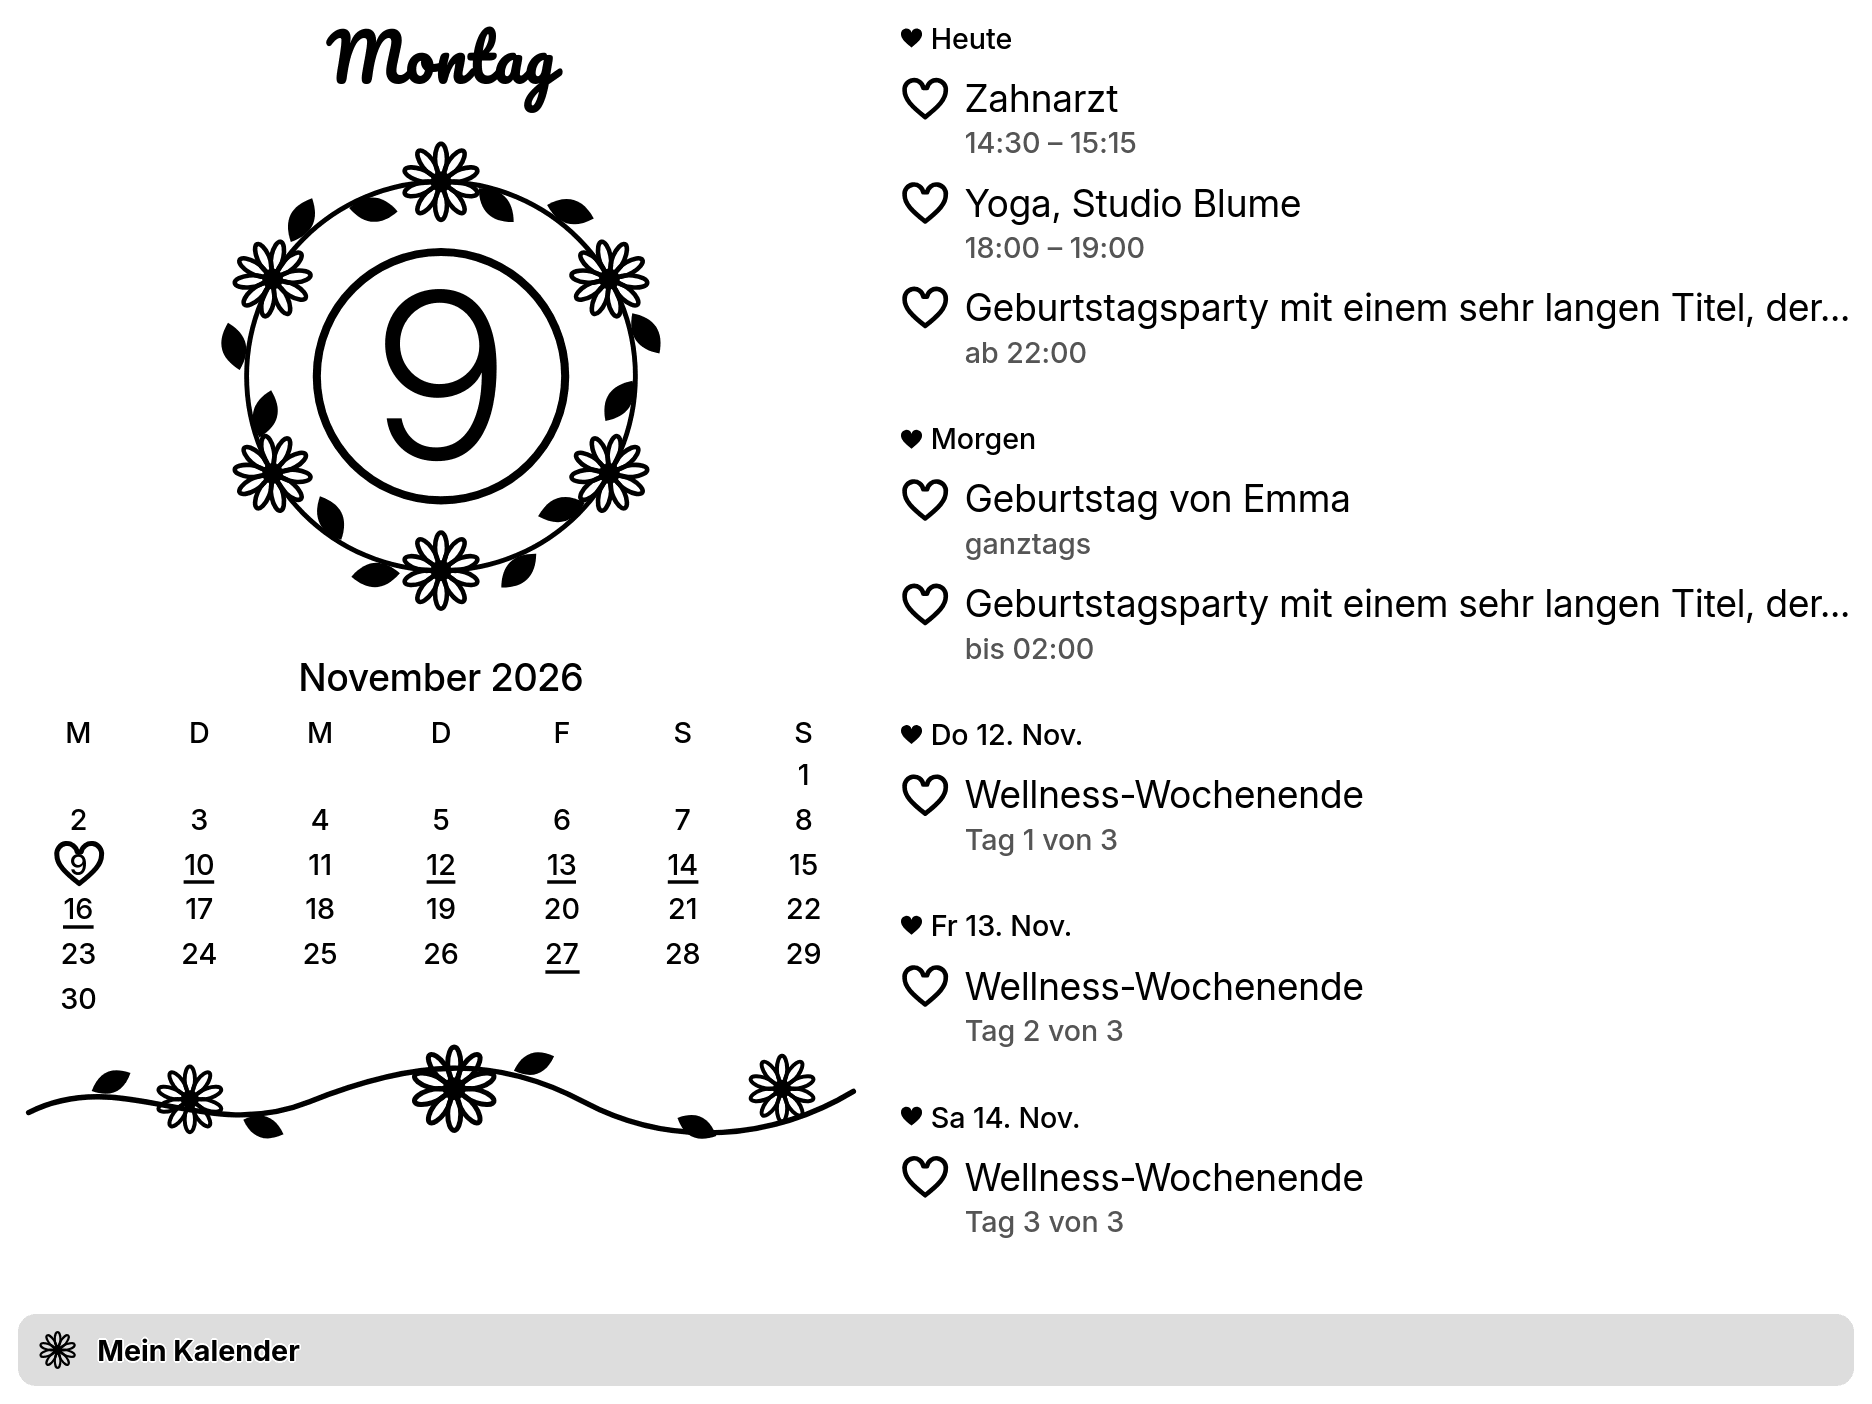
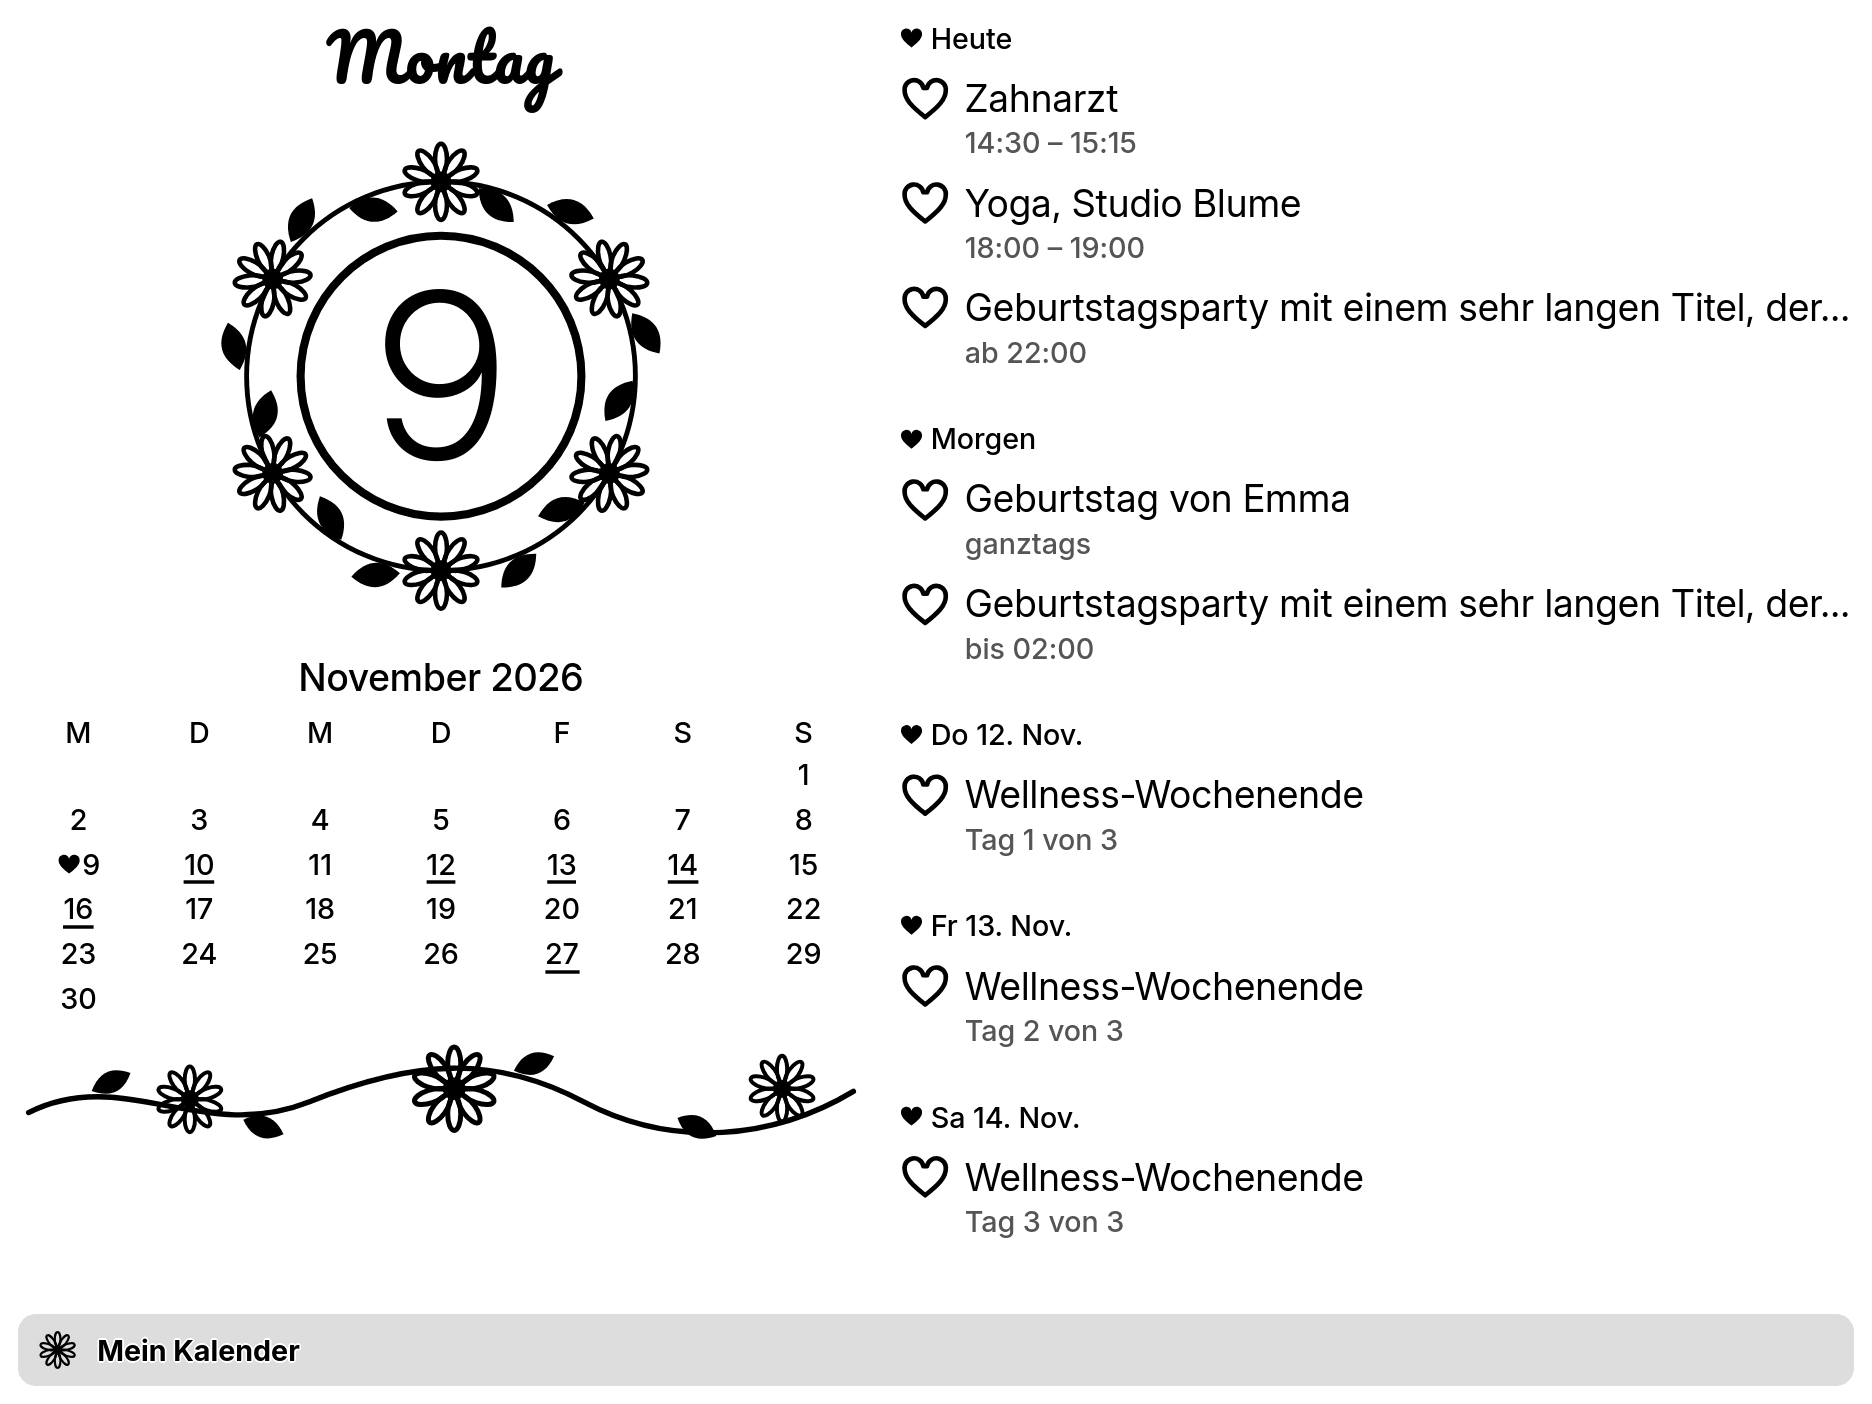
Fit two-digit dates: smaller number in a wider circle, heart before today in the month

Changed region(s): [[0.1549, 0.1531, 0.3098, 0.3369], [0.1859, 0.3369, 0.2788, 0.3675], [0.031, 0.5819, 0.062, 0.6432]]

diff --git a/tests/plugin_spec.rb b/tests/plugin_spec.rb
@@ -56,9 +56,9 @@ RSpec.describe 'Blossom Calendar' do
 
     it 'marks busy days of the month and today' do
       h = html
-      %w[9 10 12 13 14 16 27].each { |d| expect(h).to include(%(bc-busy">#{d}<)).or include(%(</svg>#{d}</span>)) }
+      %w[10 12 13 14 16 27].each { |d| expect(h).to include(%(bc-busy">#{d}<)) }
       expect(h).not_to include('bc-busy">11<')
-      expect(h).to include('bc-month__today')
+      expect(h).to match(%r{bc-month__today">.*?</svg>\S*9</span>})
     end
 
     it 'follows the plugin\'s 12-hour clock and week start' do

diff --git a/README.md b/README.md
@@ -17,7 +17,7 @@ A sweet calendar for [TRMNL](https://trmnl.com) e-paper displays: today's date i
 ## Features
 
 - Today's date in a wreath of leaves and six daisies, the weekday in [Pacifico](https://fonts.google.com/specimen/Pacifico) script
-- The month at a glance: today sits in a heart, days with something on are underlined
+- The month at a glance: today with a little heart in front, days with something on are underlined
 - A daisy vine, and a heart in front of every event
 - Agenda for the next 3, 7 or 14 days: times, all-day events, multi-day events ("Day 2 of 3"), events past midnight; what already ended today drops off
 - Your calendar from TRMNL's own calendar plugins (Google Calendar, Outlook, Apple Calendar, CalDAV with any iCal link), up to three at once
